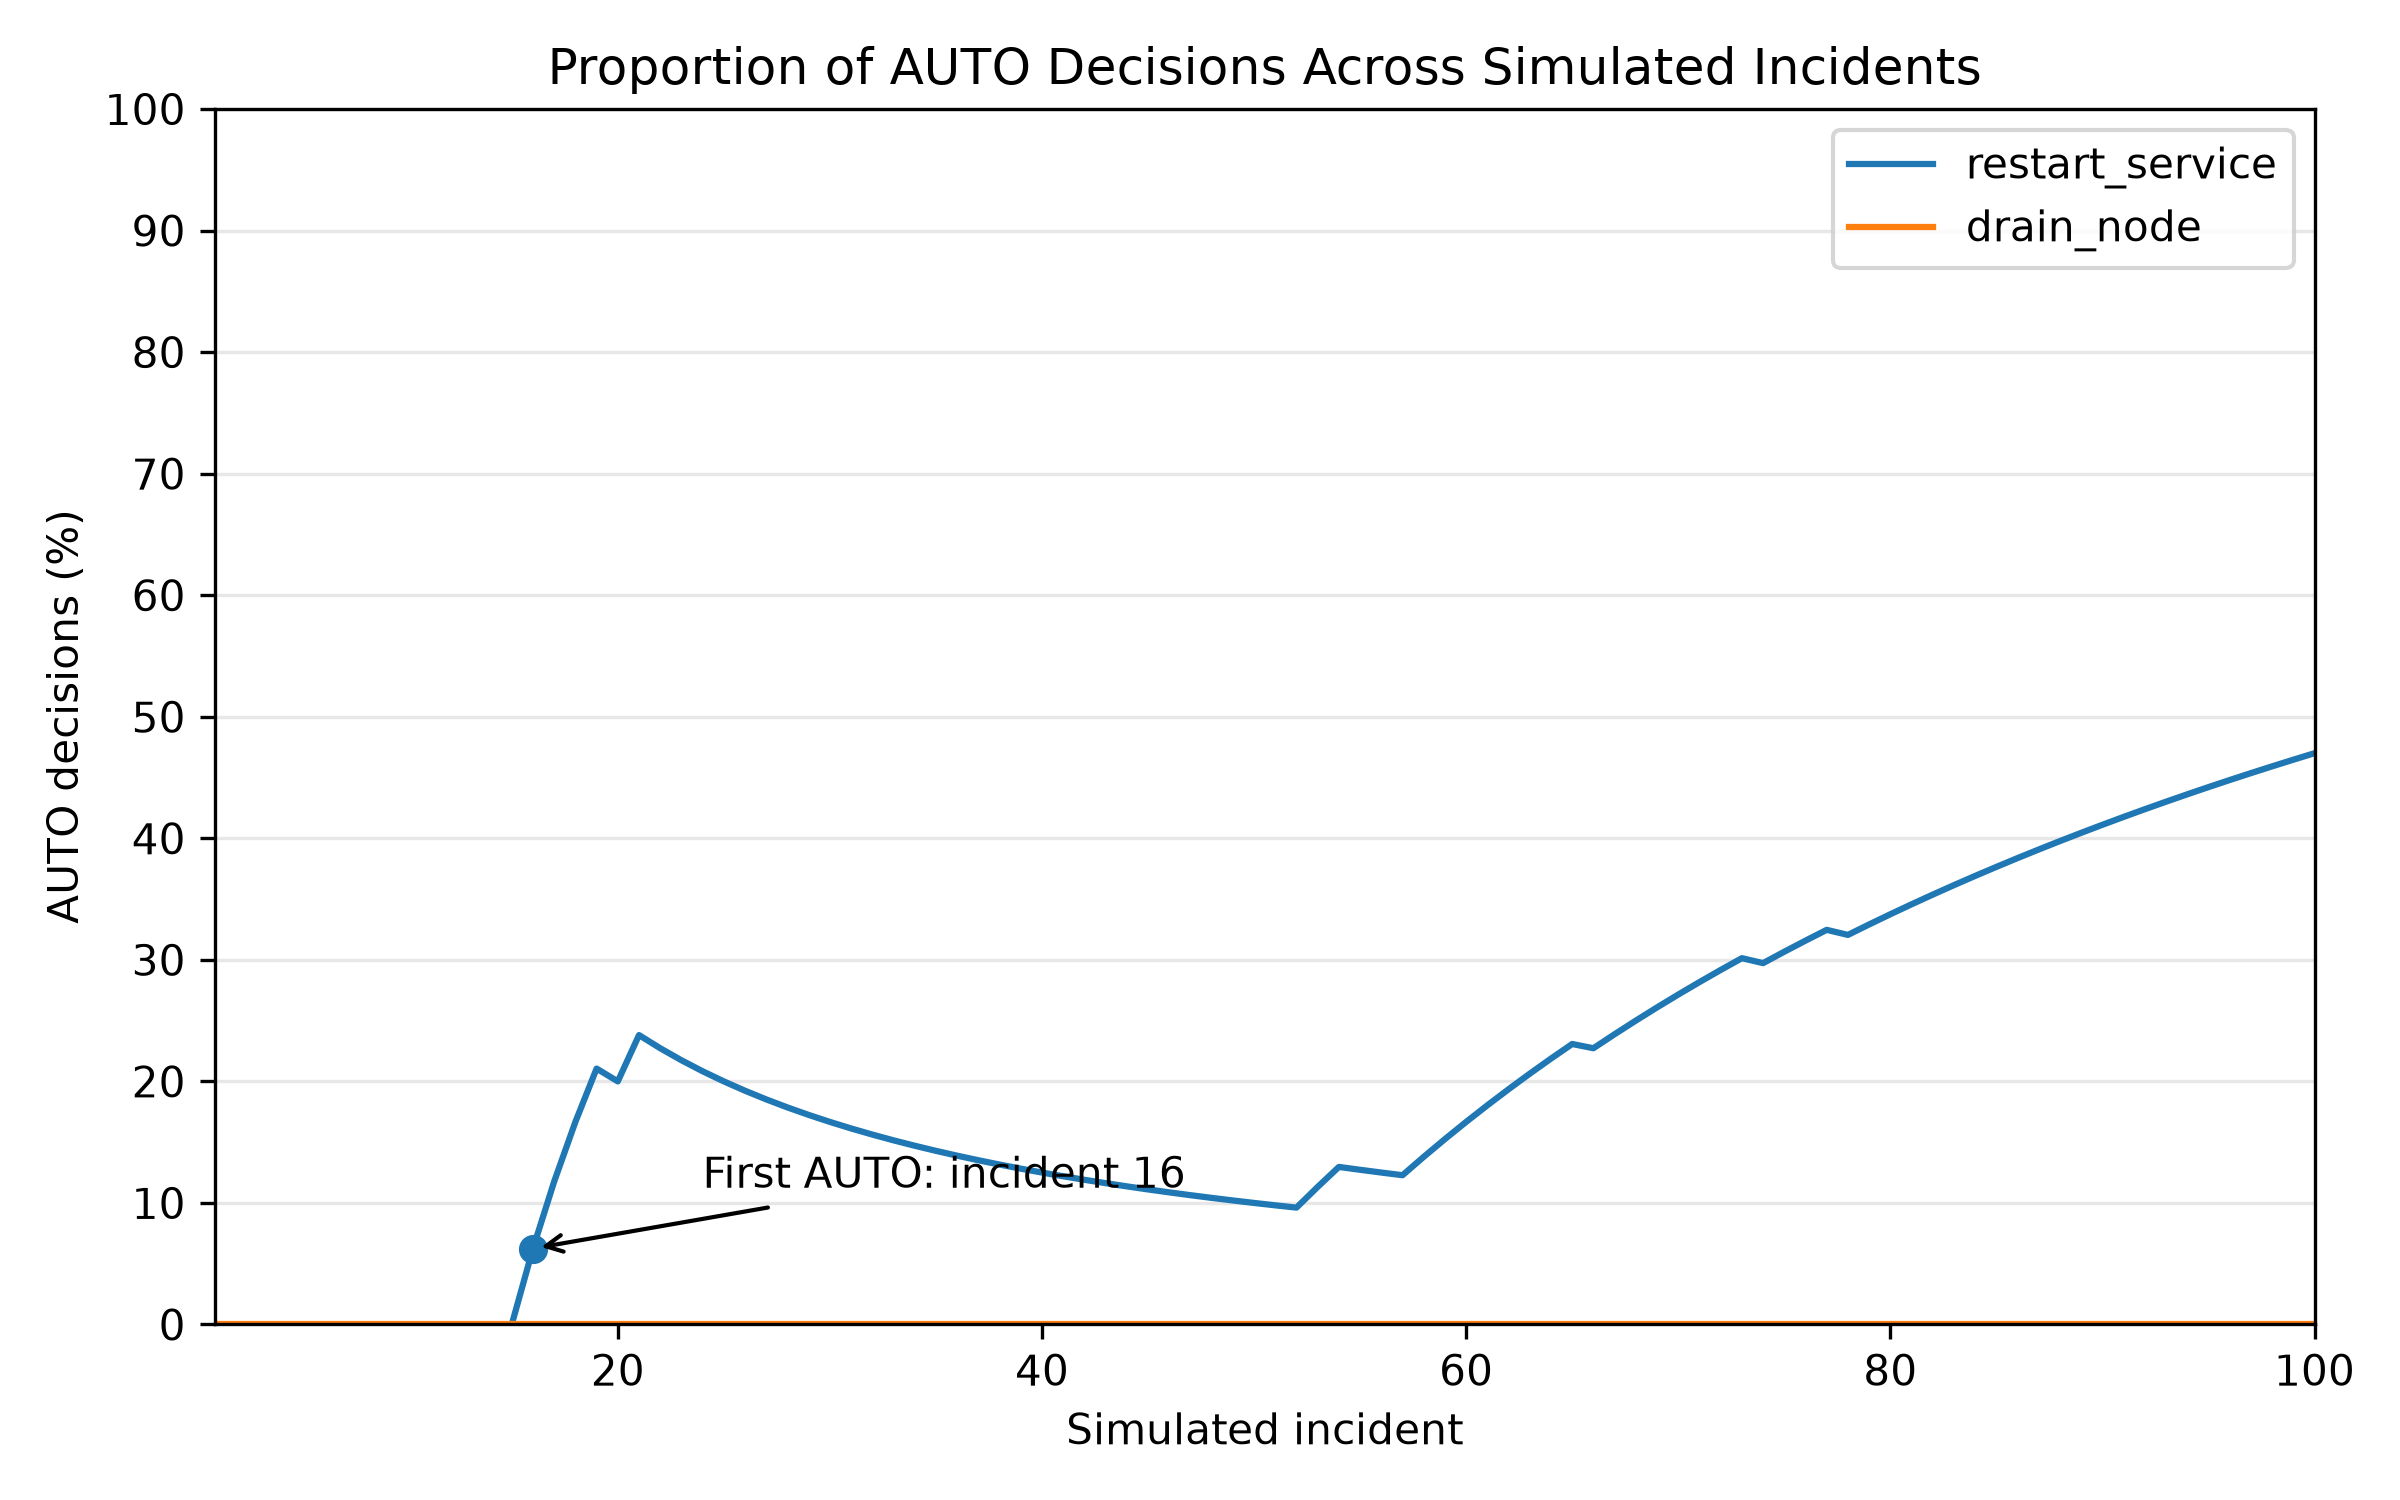
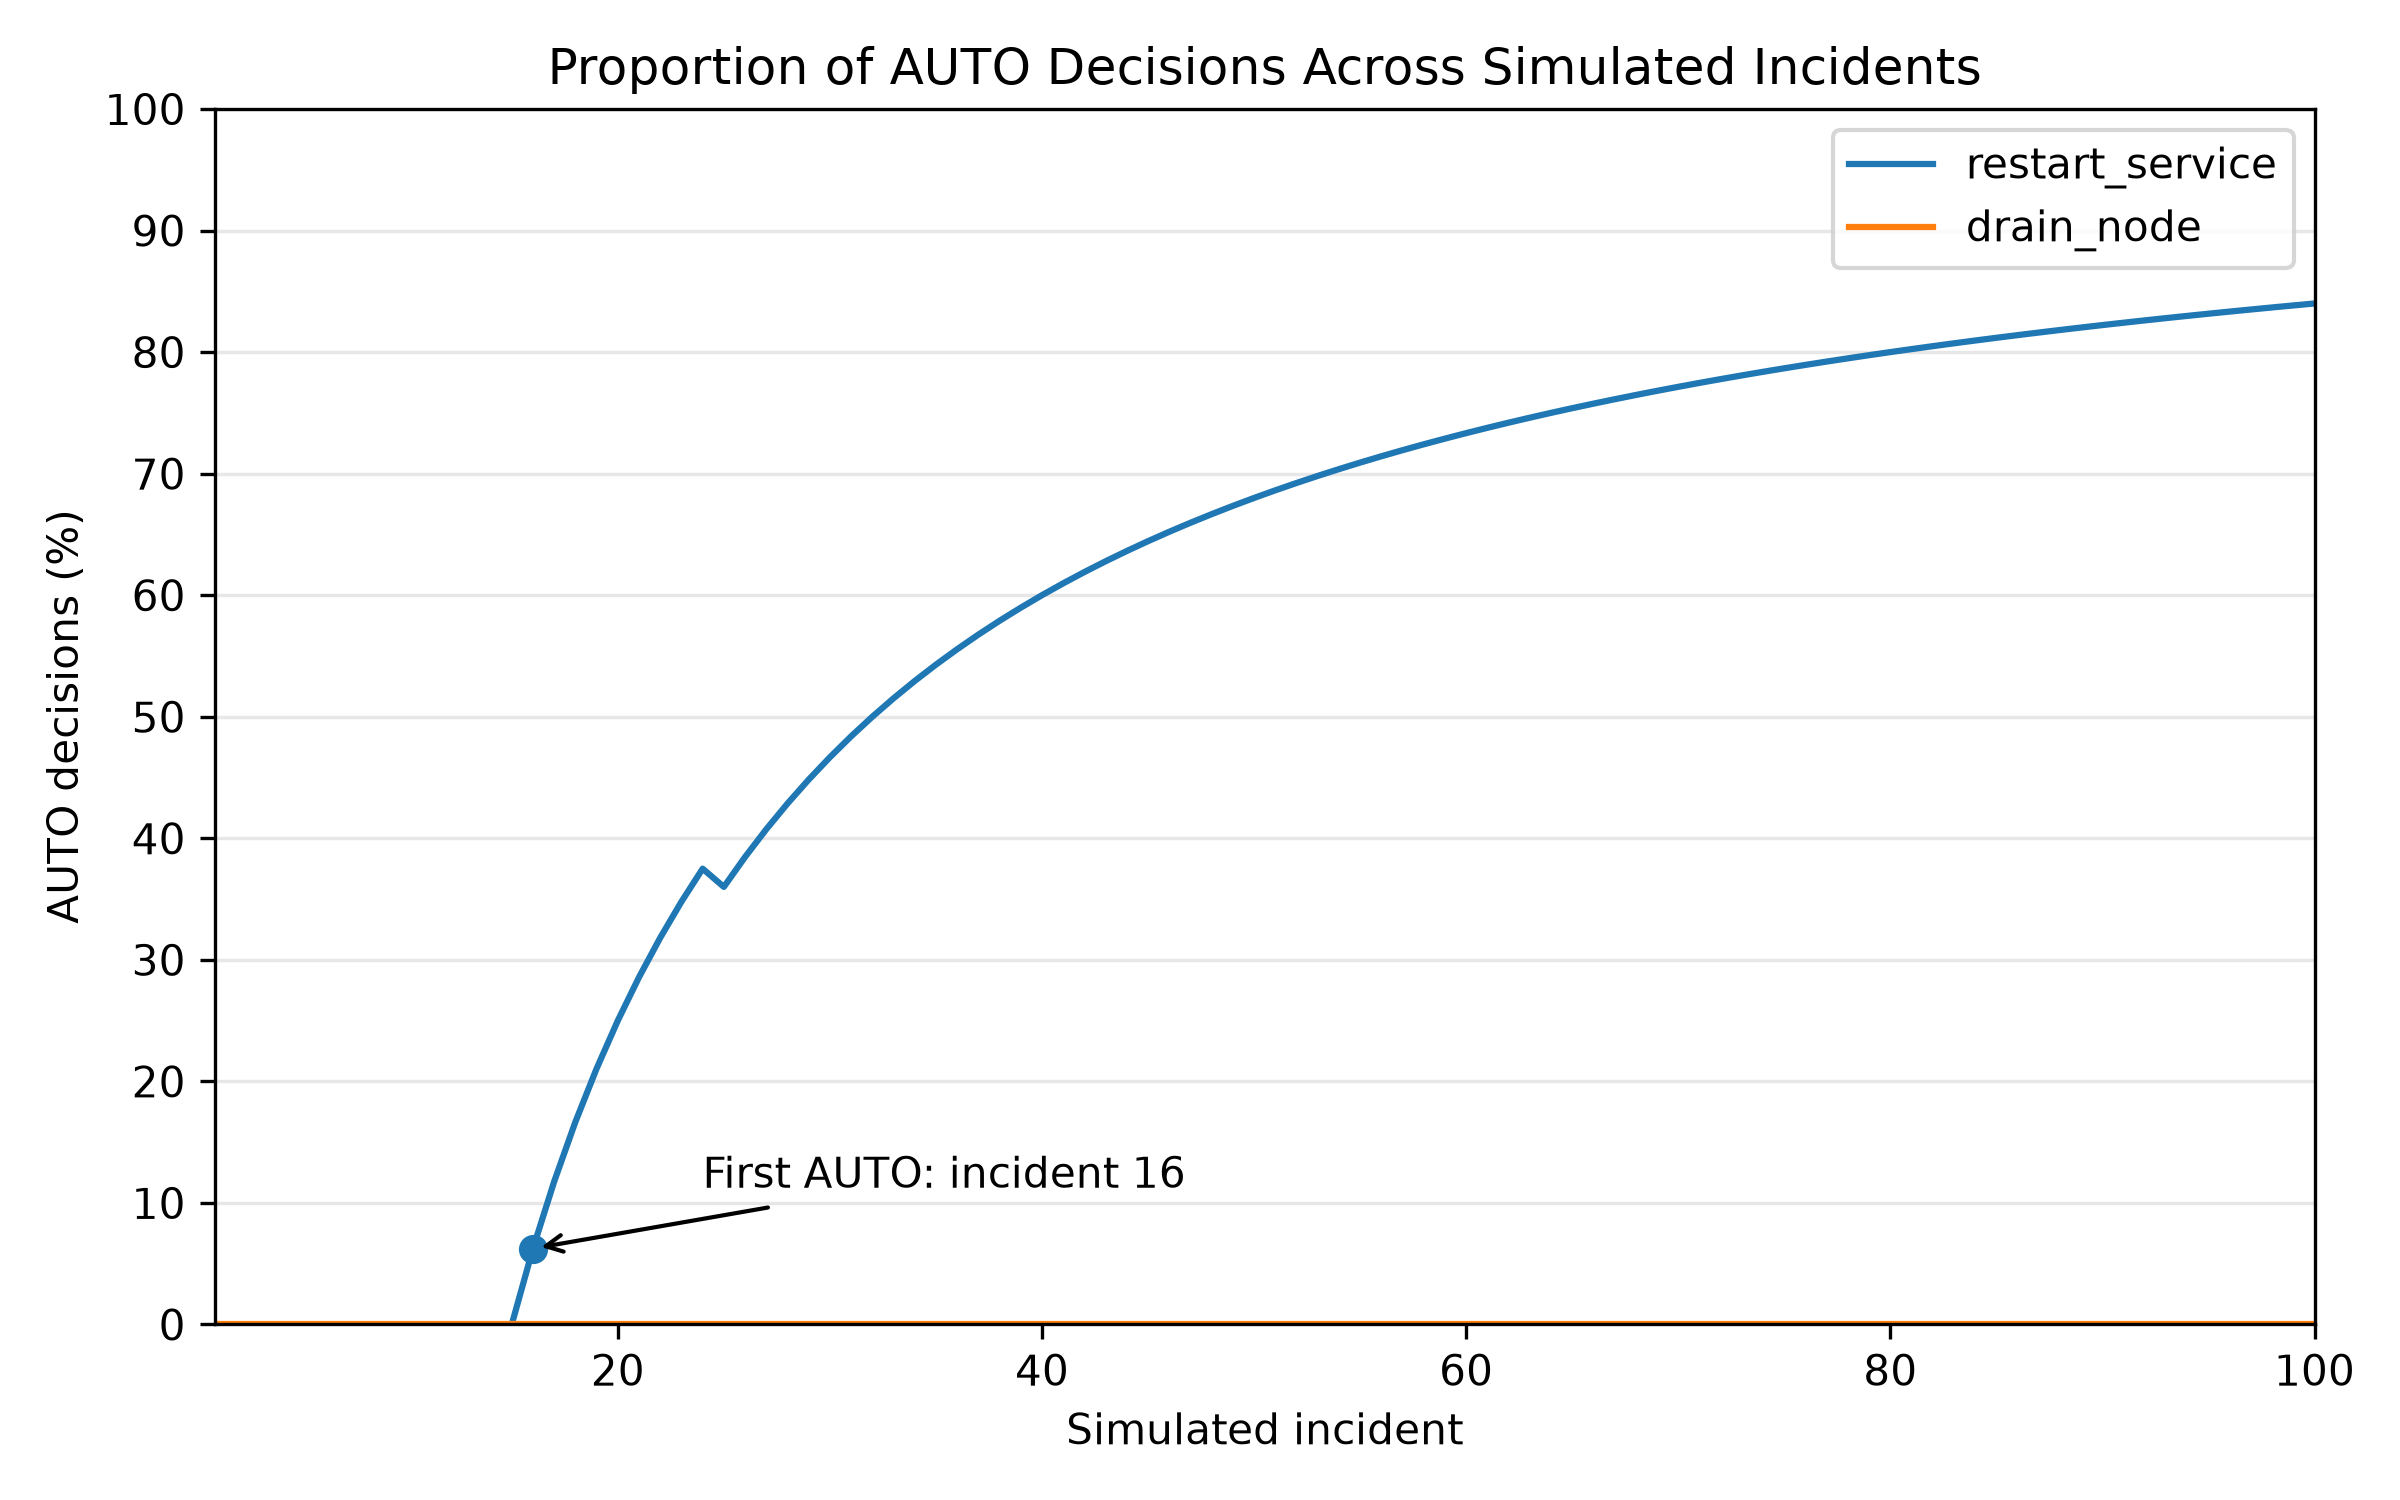
Refine simulator ground truth and learning experiment

diff --git a/run_learning_experiment.py b/run_learning_experiment.py
@@ -4,12 +4,22 @@ import matplotlib.pyplot as plt
 
 from src.evidence import EvidenceStore
 from src.gate import TrustGate
-from src.simulator import apply_outcome_to_evidence, generate_outcome
+from src.simulator import (
+    apply_outcome_to_evidence,
+    generate_incident,
+    generate_outcome,
+)
 
 
-ACTIONS_TO_TEST = [
-    "restart_service",
-    "drain_node",
+EXPERIMENTS = [
+    {
+        "action_type": "restart_service",
+        "incident_type": "kernel_error",
+    },
+    {
+        "action_type": "drain_node",
+        "incident_type": "communication_failure",
+    },
 ]
 
 MACHINE_CLASS = "compute_node"
@@ -18,6 +28,7 @@ TRIALS = 100
 
 def run_action_experiment(
     action_type,
+    incident_type,
     machine_class,
     trials,
     evidence_store,
@@ -29,33 +40,39 @@ def run_action_experiment(
     first_auto_incident = None
 
     for incident_number in range(1, trials + 1):
+        incident = generate_incident()
+
+        # Control the incident type so that the experiment evaluates
+        # a known incident/action pairing rather than mixing correct
+        # and incorrect remediation scenarios.
+        incident.incident_type = incident_type
+
         result = gate.decide(
-            action_type,
-            machine_class,
+            action_type=action_type,
+            machine_class=machine_class,
         )
 
         decisions.append(result.decision)
 
-        # In the simulator, an ESCALATE decision represents
-        # human-approved handling of the candidate action.
-        # Its outcome can therefore contribute evidence.
-        outcome = generate_outcome(action_type)
-
-        apply_outcome_to_evidence(
-            outcome,
-            action_type,
-            machine_class,
-            evidence_store,
+        # ESCALATE represents human-approved handling in this
+        # learning experiment. The observed outcome contributes
+        # evidence for the action and machine-class combination.
+        outcome = generate_outcome(
+            action_type=action_type,
+            incident_type=incident.incident_type,
         )
 
-        if (
-            result.decision == "AUTO"
-            and first_auto_incident is None
-        ):
+        apply_outcome_to_evidence(
+            outcome=outcome,
+            action_type=action_type,
+            machine_class=machine_class,
+            evidence_store=evidence_store,
+        )
+
+        if result.decision == "AUTO" and first_auto_incident is None:
             first_auto_incident = incident_number
 
         auto_count = decisions.count("AUTO")
-
         auto_proportion_history.append(
             auto_count / incident_number
         )
@@ -72,7 +89,10 @@ def main():
 
     results = {}
 
-    for action_type in ACTIONS_TO_TEST:
+    for experiment in EXPERIMENTS:
+        action_type = experiment["action_type"]
+        incident_type = experiment["incident_type"]
+
         evidence_store = EvidenceStore()
 
         (
@@ -80,13 +100,15 @@ def main():
             auto_history,
             first_auto_incident,
         ) = run_action_experiment(
-            action_type,
-            MACHINE_CLASS,
-            TRIALS,
-            evidence_store,
+            action_type=action_type,
+            incident_type=incident_type,
+            machine_class=MACHINE_CLASS,
+            trials=TRIALS,
+            evidence_store=evidence_store,
         )
 
         results[action_type] = {
+            "incident_type": incident_type,
             "decisions": decisions,
             "auto_history": auto_history,
             "first_auto_incident": first_auto_incident,
@@ -94,20 +116,12 @@ def main():
 
         print()
         print("Action:", action_type)
+        print("Incident type:", incident_type)
         print("Machine class:", MACHINE_CLASS)
         print("Decisions:")
-        print(
-            "  ESCALATE:",
-            decisions.count("ESCALATE"),
-        )
-        print(
-            "  PROPOSE:",
-            decisions.count("PROPOSE"),
-        )
-        print(
-            "  AUTO:",
-            decisions.count("AUTO"),
-        )
+        print("  ESCALATE:", decisions.count("ESCALATE"))
+        print("  PROPOSE:", decisions.count("PROPOSE"))
+        print("  AUTO:", decisions.count("AUTO"))
 
         if first_auto_incident is None:
             print("First AUTO decision: never")
@@ -117,7 +131,6 @@ def main():
                 first_auto_incident,
             )
 
-    # Create the Week 3 result figure.
     plt.figure(figsize=(8, 5))
 
     for action_type, result in results.items():
@@ -134,7 +147,6 @@ def main():
 
         if result["first_auto_incident"] is not None:
             first_auto = result["first_auto_incident"]
-
             first_auto_value = (
                 result["auto_history"][first_auto - 1] * 100
             )
@@ -147,38 +159,27 @@ def main():
 
             plt.annotate(
                 f"First AUTO: incident {first_auto}",
-                xy=(
-                    first_auto,
-                    first_auto_value,
-                ),
+                xy=(first_auto, first_auto_value),
                 xytext=(
                     first_auto + 8,
                     first_auto_value + 5,
                 ),
-                arrowprops={
-                    "arrowstyle": "->"
-                },
+                arrowprops={"arrowstyle": "->"},
             )
 
     plt.xlabel("Simulated incident")
     plt.ylabel("AUTO decisions (%)")
-
     plt.title(
         "Proportion of AUTO Decisions Across Simulated Incidents"
     )
-
     plt.ylim(0, 100)
     plt.xlim(1, TRIALS)
-
     plt.yticks(range(0, 101, 10))
-
     plt.grid(
         axis="y",
         alpha=0.3,
     )
-
     plt.legend()
-
     plt.tight_layout()
 
     plt.savefig(

diff --git a/src/simulator.py b/src/simulator.py
@@ -1,8 +1,11 @@
 from dataclasses import dataclass
 from collections import Counter
 import random
+
 import matplotlib.pyplot as plt
-from src.evidence import EvidenceStore  
+
+from src.evidence import EvidenceStore
+
 
 @dataclass
 class Incident:
@@ -10,10 +13,14 @@ class Incident:
     incident_type: str
     machine_class: str
     timestamp: str
+
+
 class OutcomeType:
     RESOLVED = "resolved"
     RECURRED = "recurred"
     HARMFUL = "harmful"
+
+
 @dataclass
 class Outcome:
     outcome_type: str
@@ -44,6 +51,15 @@ MACHINE_CLASSES = [
 ]
 
 
+CORRECT_ACTIONS = {
+    "kernel_error": "restart_service",
+    "storage_error": "reclaim_disk",
+    "filesystem_failure": "reclaim_disk",
+    "communication_failure": "drain_node",
+    "application_error": "requeue_job",
+}
+
+
 def generate_incident():
     incident_type = random.choices(
         INCIDENT_TYPES,
@@ -61,17 +77,36 @@ def generate_incident():
     )
 
 
-def generate_outcome(action_type):
-    outcome_probabilities = {
-        "restart_service": (0.80, 0.15, 0.05),
-        "requeue_job": (0.45, 0.35, 0.20),
-        "reset_driver": (0.60, 0.25, 0.15),
-        "drain_node": (0.50, 0.25, 0.25),
-        "reclaim_disk": (0.40, 0.30, 0.30),
-    }
+def generate_outcome(action_type, incident_type=None):
+    """
+    Generate an outcome for a candidate remediation action.
+
+    When incident_type is provided, the simulator distinguishes between
+    the known correct remediation and an incorrect candidate action.
+
+    These probabilities are fixed simulator assumptions, not measurements
+    from the BGL dataset.
+    """
+
+    if incident_type is not None:
+        correct_action = CORRECT_ACTIONS[incident_type]
+
+        if action_type == correct_action:
+            outcome_probabilities = (0.80, 0.15, 0.05)
+        else:
+            outcome_probabilities = (0.10, 0.75, 0.15)
+    else:
+        # Backward-compatible behavior for existing callers.
+        outcome_probabilities = {
+            "restart_service": (0.80, 0.15, 0.05),
+            "requeue_job": (0.45, 0.35, 0.20),
+            "reset_driver": (0.60, 0.25, 0.15),
+            "drain_node": (0.50, 0.25, 0.25),
+            "reclaim_disk": (0.40, 0.30, 0.30),
+        }[action_type]
 
     resolved_probability, recurred_probability, harmful_probability = (
-        outcome_probabilities[action_type]
+        outcome_probabilities
     )
 
     outcome_type = random.choices(
@@ -112,6 +147,7 @@ def apply_outcome_to_evidence(
             machine_class,
         )
 
+
 def generate_incidents(count=1000):
     incidents = []
 
@@ -120,7 +156,8 @@ def generate_incidents(count=1000):
         incident.incident_id = f"INC-{i + 1:06d}"
         incidents.append(incident)
 
-    return incidents                    
+    return incidents
+
 
 if __name__ == "__main__":
     incidents = generate_incidents(1000)
@@ -144,6 +181,5 @@ if __name__ == "__main__":
     plt.title("Simulated Incident Distribution")
     plt.xticks(rotation=30)
     plt.tight_layout()
-
     plt.savefig("results/incident_distribution.png")
     plt.show()
